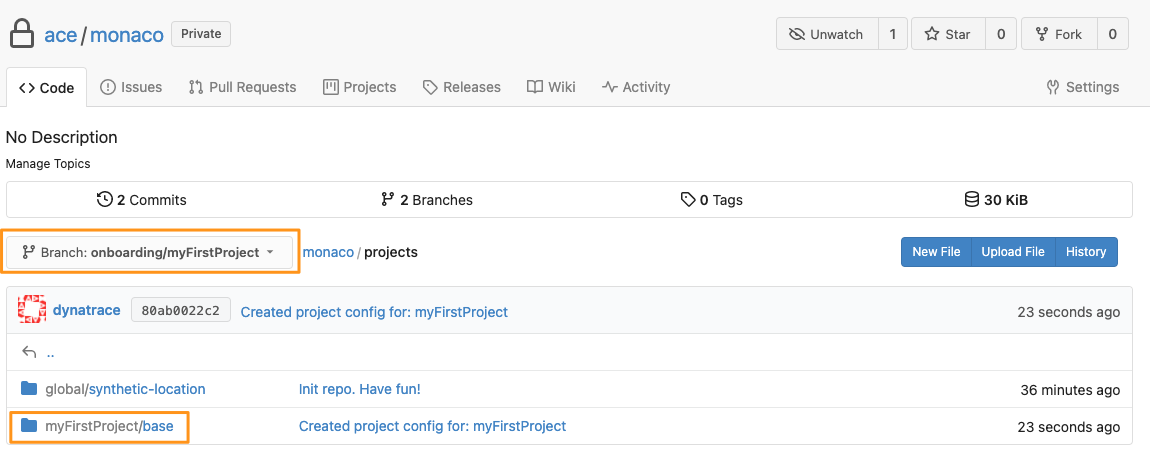
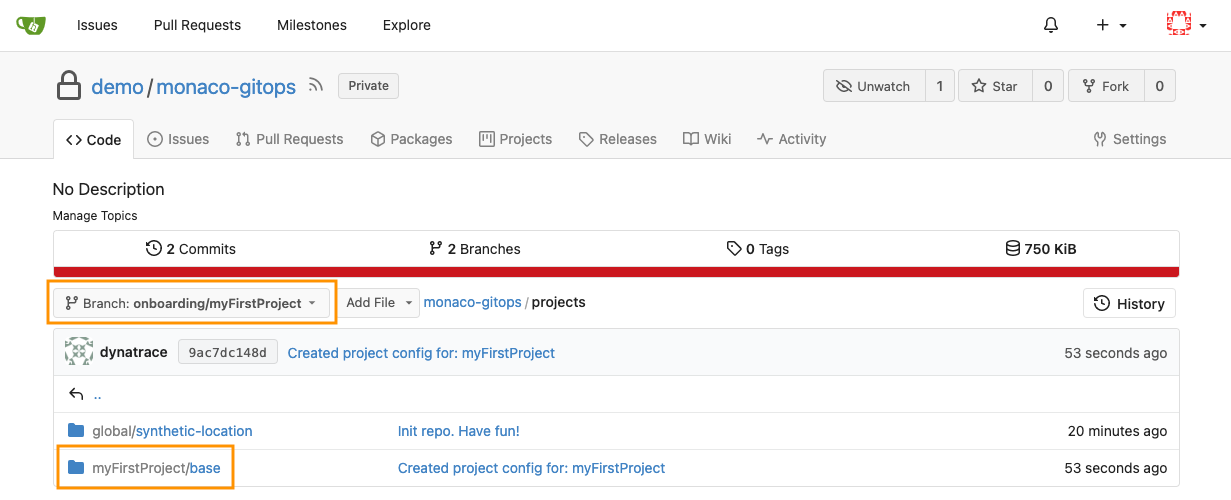
Fix/441/demo monaco gitops issues (#442)
* Align Jenkins parameters

* Correct multiple README mismatches

diff --git a/user-skel/ansible/roles/demo-monaco-gitops/files/repos/monaco/README.md b/user-skel/ansible/roles/demo-monaco-gitops/files/repos/monaco/README.md
@@ -5,7 +5,7 @@ In this demo, we will demonstrate how customers can leverage a true GitOps appro
 This is a great way to showcase generic application onboarding together with tools (git, jenkins) and mechanisms (merge, pull request, code review) that developers and SREs understand and bring together in a GitOps Approach to observability.
 
 ## Onboarding pipeline
-In the `demo-monaco-gitops` folder, you will find the pipeline `Monaco - Application Onboarding`.
+In the `demo-monaco-gitops` Jenkins folder, you will find the pipeline `Onboard Application`.
 Run this pipeline which will bring up a form.
 Fill in the details of the form as you wish, you can use the below screenshot as an example.
 
@@ -13,15 +13,15 @@ Fill in the details of the form as you wish, you can use the below screenshot as
 
 Once finished, click on `Build`.
 
-This pipeline is driven by the Jenkinsfile stored in gitea `demo/monaco/src/branch/master/onboarding.Jenkinsfile` and does the following:
+This pipeline is driven by the Jenkinsfile stored in gitea `demo/monaco-gitops/src/branch/main/onboarding.Jenkinsfile` and does the following:
 
-1. Create a new branch in the `demo/monaco` repo that is called `onboarding/PROJECT_NAME_FROM_FORM` 
-2. Create a folder with the name of the project specified in the form into the `projects` folder inside the `ace/monaco` repo.
+1. Create a new branch in the `demo/monaco-gitops` repo that is called `onboarding/PROJECT_NAME_FROM_FORM` 
+2. Create a folder with the name of the project specified in the form into the `projects` folder inside the `demo/monaco-gitops` repo.
 3. Copy over the `_template` folder from the root of the repo to the newly created folder
 4. Using a combination of `find` and `sed` it will do basic text replacement based on the input of the form into the Monaco configuration
 5. Check in and push all the files into the newly created onboarding branch
 
-After the pipeline has run, check out the `demo/monaco` repository and see that a newly created branch appears and a new project folder.
+After the pipeline has run, check out the `demo/monaco-gitops` repository and see that a newly created branch appears and a new project folder.
 
 ![Gitea - Branch and Project created](assets/gitea_branch_project.png)
 
@@ -37,7 +37,7 @@ In the section `Branch Sources`:
 2. The Gitea server should be automatically selected
 3. Select the `dynatrace/******` credentials
 4. Under Owner, fill in `demo`
-5. The Repository `monaco` should be automatically selected
+5. The Repository `monaco-gitops` should be automatically selected
 6. The rest in this section can be left as default
 
 In the section `Build Configuration`:
@@ -46,15 +46,15 @@ In the section `Build Configuration`:
 
 Click on `Save`
 
-This will now scan all the repositories in the `demo` organization in gitea, and look for a `monaco.Jenkinsfile`, and if found it will process it.
+This will now scan the `monaco-gitops` repository in the Gitea `demo` organization, look for a `monaco.Jenkinsfile` and if found it will process it.
 
-After a minute, if you go into Jenkins in the `demo-monaco-gitops` folder and open the `ace` folder, you will find one repository listed: `monaco`.
+After a minute, if you go into Jenkins in the `demo-monaco-gitops` folder, you will find one repository listed: `monaco-gitops`.
 
 Open this repository and you will see two branches listed:
 
 ![Pipelines](assets/jenkins_ace_onboarding_pipeline.png)
 
-One is the master branch, which we consider our `Production Gold Config`, aka what we currently have deployed in prod.
+One is the `main` branch, which we consider our `Production Gold Config`, aka what we currently have deployed in prod.
 
 The other branch is our new onboarding branch. 
 Open up the pipeline in Jenkins and follow its progress:
@@ -64,12 +64,12 @@ This pipeline has the following steps:
 1. Perform a Monaco dry-run of the new project
 2. Apply the new project to a Validation environment (staging)
 3. An Approval step will show like the screenshot below. The idea here is that now you verify in your Dynatrace environment that you like the new config - Check it out and see management zones, application, synthetic tests, ... created. If you have missed this validation step (there is a 3 min timeout), then relaunch the pipeline.
-4. When approved, it will now create a Pull Request in Gitea to merge these changes back into the `master branch`
+4. When approved, it will now create a Pull Request in Gitea to merge these changes back into the `main branch`
 
 ![Onboarding pipeline progress](assets/jenkins_onboarding_progress.png)
 
 
-Go back into Gitea and open the `ace/monaco` branch. Notice that a new Pull Request was opened:
+Go back into Gitea and open the `demo/monaco-gitops` repository. Notice that a new Pull Request was opened:
 
 ![Pull Request](assets/gitea_pullrequest.png)
 
@@ -77,8 +77,8 @@ Navigate through the PR and see what it is trying to do. It is using a known mec
 
 Go ahead and merge the pull request. You can also delete the onboarding branch after the merge.
 
-Back in Jenkins, in the `monaco-gitops-demo/ace/monaco` folder, the Pipeline for the `master` branch now kicks off as well as Jenkins has detected changes on that branch that were caused by us merging the onboarding branch.
+Back in Jenkins, in the `demo-monaco-gitops/monaco-gitops` folder, the Pipeline for the `main` branch now kicks off as Jenkins has detected changes on that branch that were caused by us merging the onboarding branch.
 
-The pipeline will now apply the config stored into the `master` branch into production.
+The pipeline will now apply the config stored into the `main` branch into production.
 
 >note: In our demo both the validation and production environments are the same
